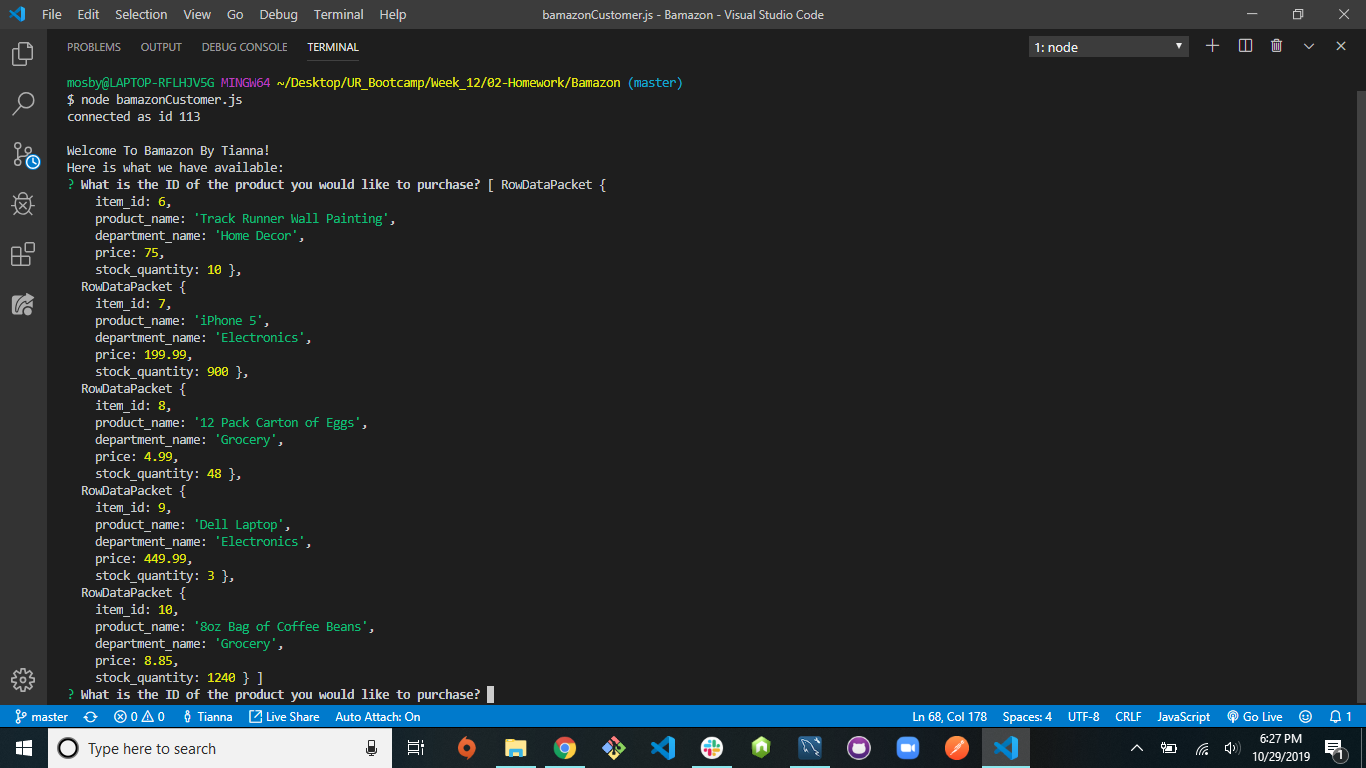
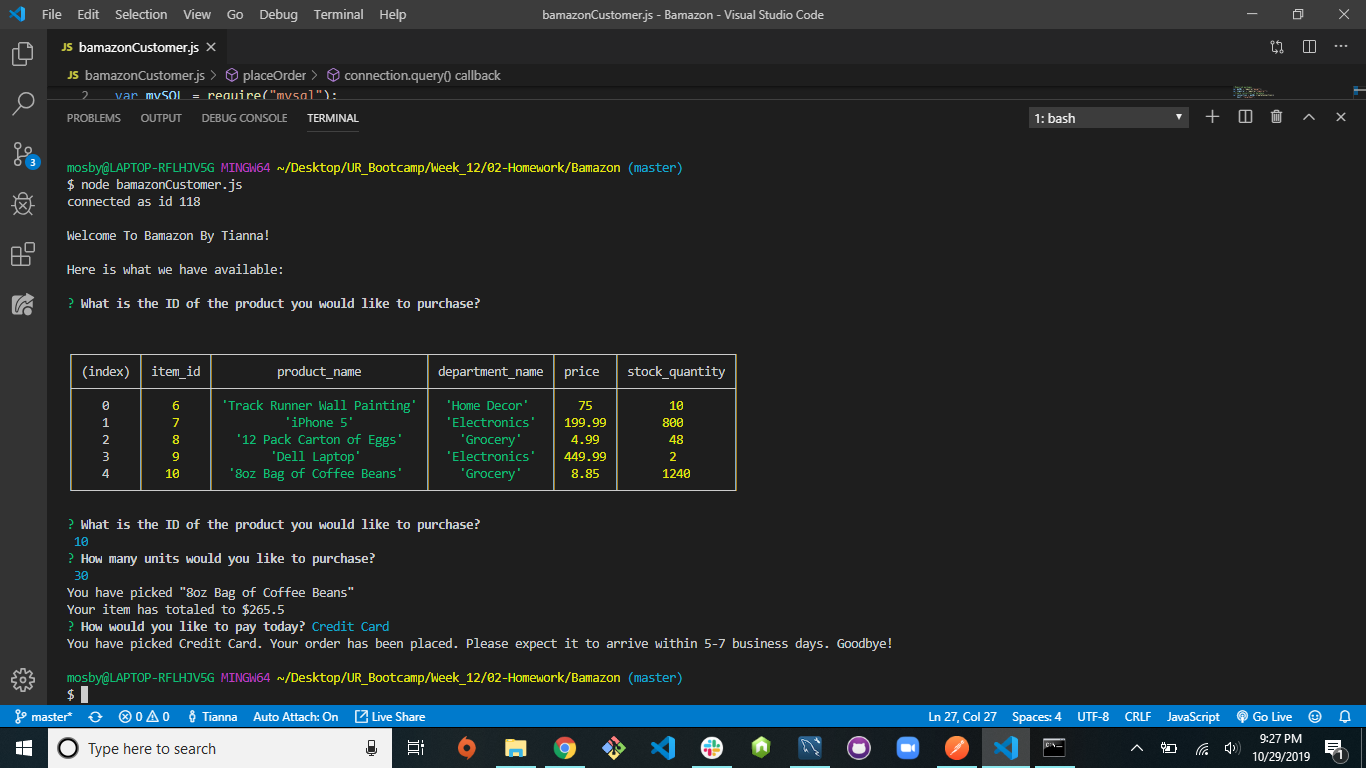
Final updates, store is functioning and pretty!

diff --git a/bamazonCustomer.js b/bamazonCustomer.js
@@ -13,8 +13,8 @@ var connection = mySQL.createConnection({
 connection.connect(function(err){
     if (err) throw err;
     console.log("connected as id " + connection.threadId + "\n");
-    console.log("Welcome To Bamazon By Tianna!")
-    console.log("Here is what we have available: ");
+    console.log("Welcome To Bamazon By Tianna!\n")
+    console.log("Here is what we have available: \n");
     placeOrder();
 });
 
@@ -22,19 +22,21 @@ function placeOrder(){
 //Display items available
     connection.query("SELECT * FROM products;" + "\n", function(err, availableProducts){
         if (err) throw err;
+        console.log("\n");
         console.table(availableProducts);
+        console.log("\n");
     })
 //Ask user for input on product
     inquirer.prompt([
         {
             type: "input",
             name: "productID",
-            message: "What is the ID of the product you would like to purchase?",
+            message: "What is the ID of the product you would like to purchase?\n",
         },
         {
             type: "input",
             name: "productUnits",
-            message: "How many units would you like to purchase?",
+            message: "How many units would you like to purchase?\n",
         }
     ]).then(function(userAnswer){
 //Compare user input to actual product IDs

diff --git a/README.md b/README.md
@@ -25,4 +25,4 @@ This version of the game was created by Tianna Mosby. For questions, concerns or
 None.
 
 ## Example Picture
-See "example-picture" and "example-picture2 in repository.
+See "example-picture" in repository.
